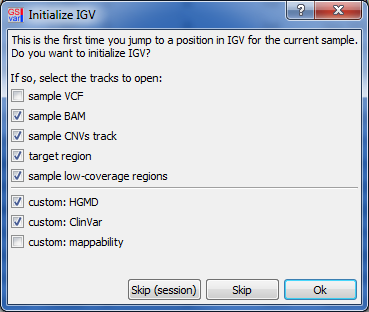
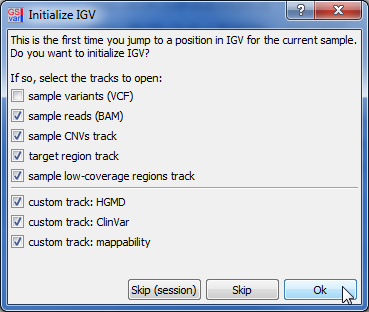
GSvar: improved IGV initialization dialog texts.

diff --git a/src/GSvar/MainWindow.cpp b/src/GSvar/MainWindow.cpp
@@ -208,7 +208,7 @@ void MainWindow::openInIGV(QString region)
         QStringList files = Helper::findFiles(folder,"*_var_annotated.vcf.gz", false);
         if (files.count()==1)
         {
-            dlg.addFile("sample VCF", files[0], ui_.actionIgvSample->isChecked());
+			dlg.addFile("sample variants (VCF)", files[0], ui_.actionIgvSample->isChecked());
         }
 
 		//sample BAM file(s)
@@ -218,21 +218,21 @@ void MainWindow::openInIGV(QString region)
 			if (bams.count()==0) return;
 			foreach(QString bam, bams)
 			{
-				dlg.addFile("sample BAM", bam, true);
+				dlg.addFile("sample reads (BAM)", bam, true);
 			}
 		}
 		else
 		{
 			QString bam = getBamFile();
 			if (bam=="") return;
-			dlg.addFile("sample BAM", bam, true);
+			dlg.addFile("sample reads (BAM)", bam, true);
 		}
 
 		//reference BAM
 		QString ref = filter_widget_->referenceSample();
 		if (ref!="")
 		{
-			dlg.addFile("reference BAM", ref, true);
+			dlg.addFile("reference reads (BAM)", ref, true);
 		}
 
 		//sample CNVs
@@ -246,12 +246,12 @@ void MainWindow::openInIGV(QString region)
 		QString roi = filter_widget_->targetRegion();
 		if (roi!="")
 		{
-			dlg.addFile("target region", roi, true);
+			dlg.addFile("target region track", roi, true);
 
 			QString amplicons = roi.left(roi.length()-4) + "_amplicons.bed";
 			if (QFile::exists(amplicons))
 			{
-				dlg.addFile("target region amplicons", amplicons, true);
+				dlg.addFile("target region amplicons track", amplicons, true);
 			}
 		}
 
@@ -259,7 +259,7 @@ void MainWindow::openInIGV(QString region)
         files = Helper::findFiles(folder,"*_lowcov.bed", false);
         if (files.count()==1)
         {
-            dlg.addFile("sample low-coverage regions", files[0], ui_.actionIgvLowcov->isChecked());
+			dlg.addFile("sample low-coverage regions track", files[0], ui_.actionIgvLowcov->isChecked());
 		}
 
 		//custom tracks
@@ -268,7 +268,7 @@ void MainWindow::openInIGV(QString region)
 		foreach(QAction* action, igv_actions)
 		{
 			QString text = action->text();
-			if (!text.startsWith("custom:")) continue;
+			if (!text.startsWith("custom track:")) continue;
 			dlg.addFile(text, action->toolTip(), action->isChecked());
 		}
 
@@ -793,7 +793,6 @@ void MainWindow::on_actionGapsRecalculate_triggered()
 	//check for BAM file
 	QString bam_file = getBamFile();
 	if (bam_file=="") return;
-
 
 	//load genes list file
 	QApplication::setOverrideCursor(QCursor(Qt::BusyCursor));
@@ -1812,7 +1811,7 @@ void MainWindow::updateIGVMenu()
 		{
 			QStringList parts = entry.trimmed().split("\t");
 			if(parts.count()!=3) continue;
-			QAction* action = ui_.menuTracks->addAction("custom: " + parts[0]);
+			QAction* action = ui_.menuTracks->addAction("custom track: " + parts[0]);
 			action->setCheckable(true);
 			action->setChecked(parts[1]=="1");
 			action->setToolTip(parts[2]);
@@ -1846,6 +1845,7 @@ void MainWindow::updateNGSDSupport()
 	ui_.actionTrio->setEnabled(ngsd_enabled);
 	ui_.actionSampleInformation->setEnabled(ngsd_enabled);
 	ui_.actionGapsRecalculate->setEnabled(ngsd_enabled);
+	ui_.actionGeneSelector->setEnabled(ngsd_enabled);
 
 	//tools menu
 	ui_.actionOpenNGSD->setEnabled(ngsd_enabled);
